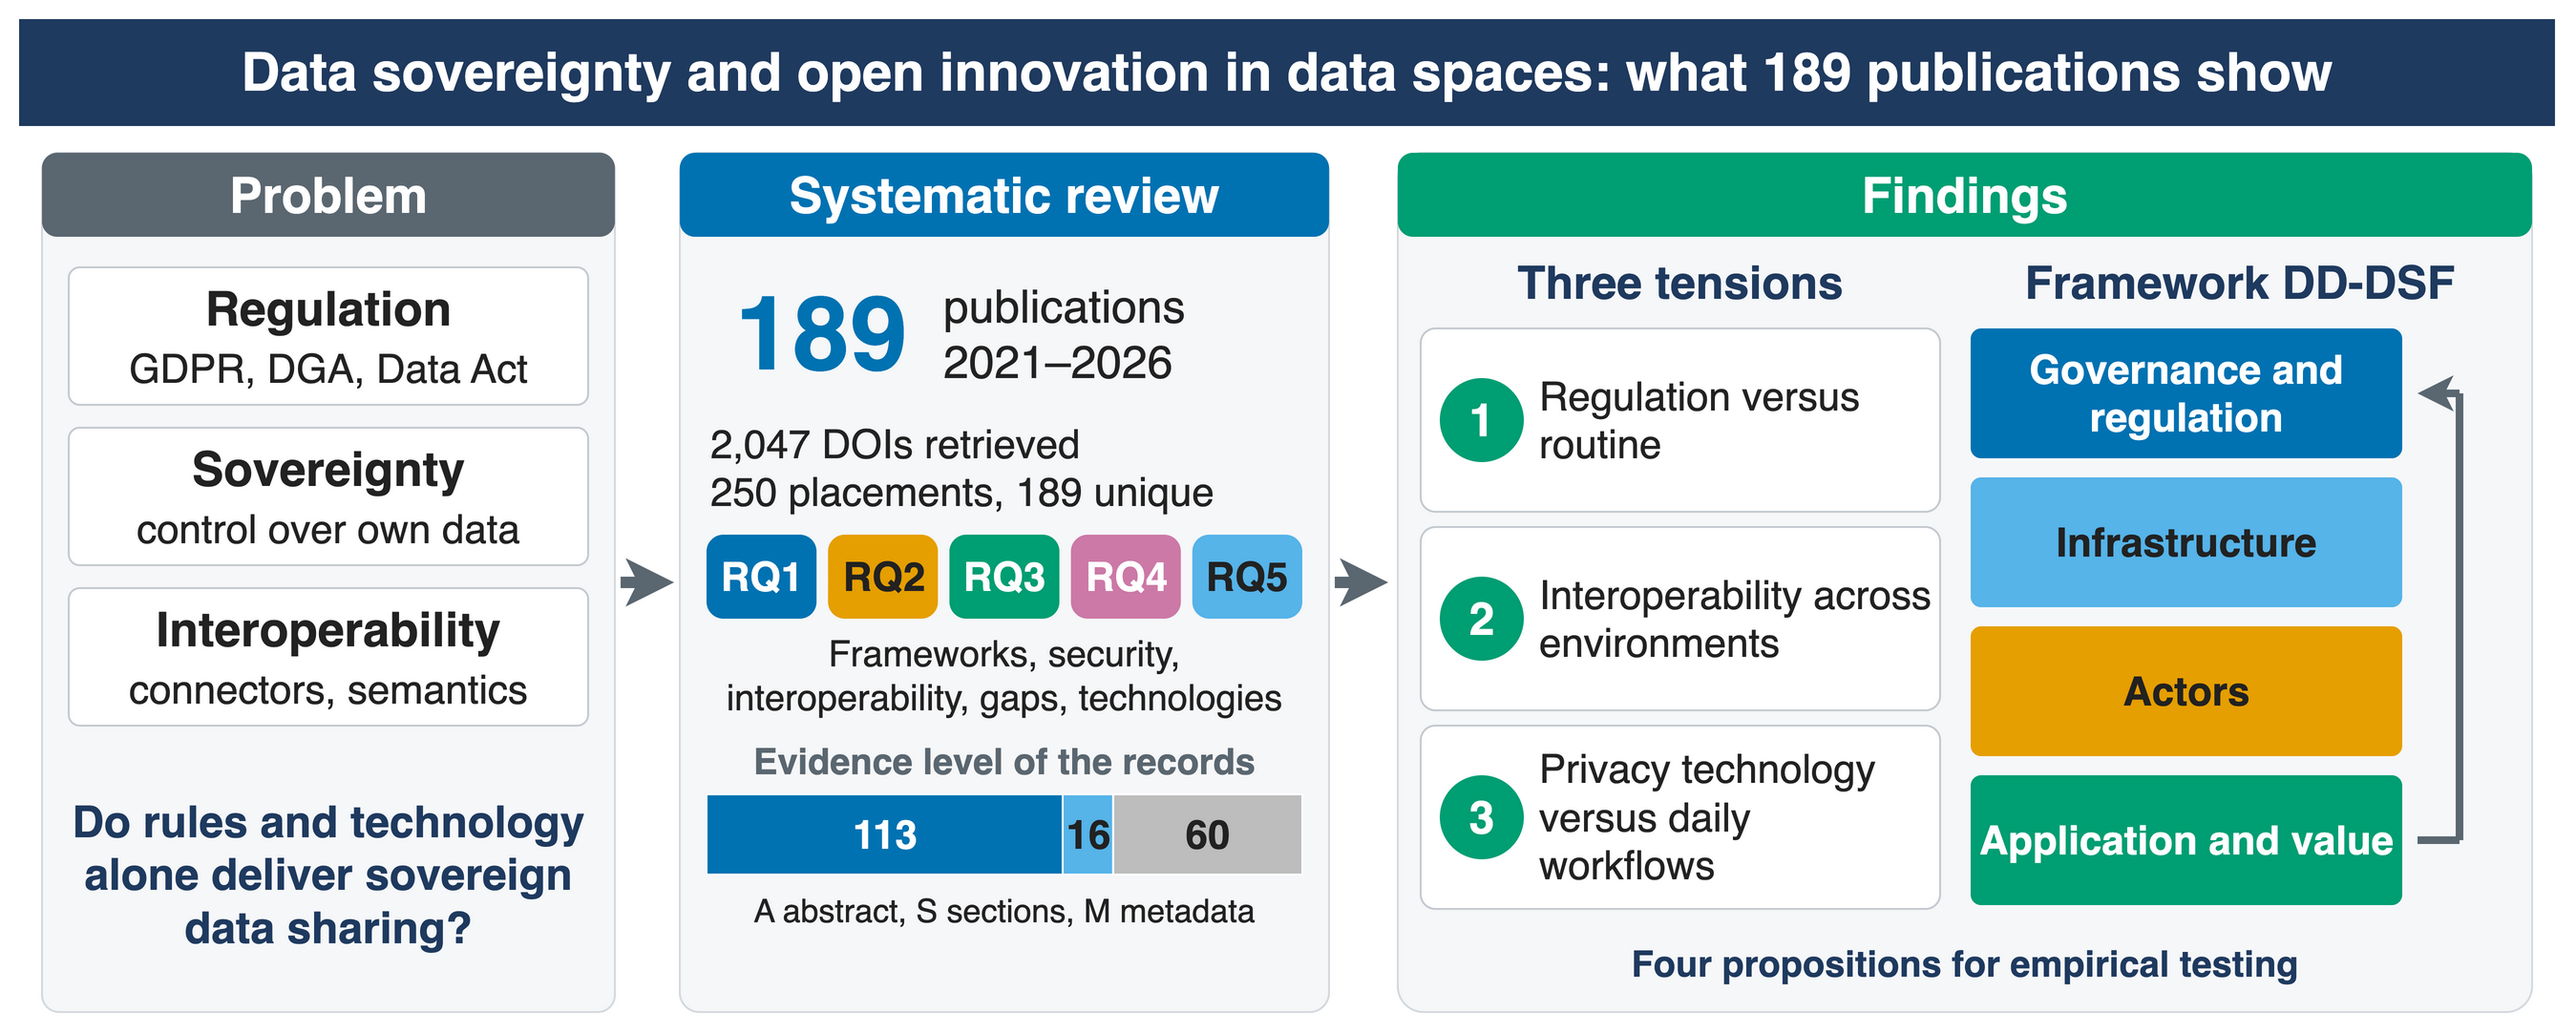
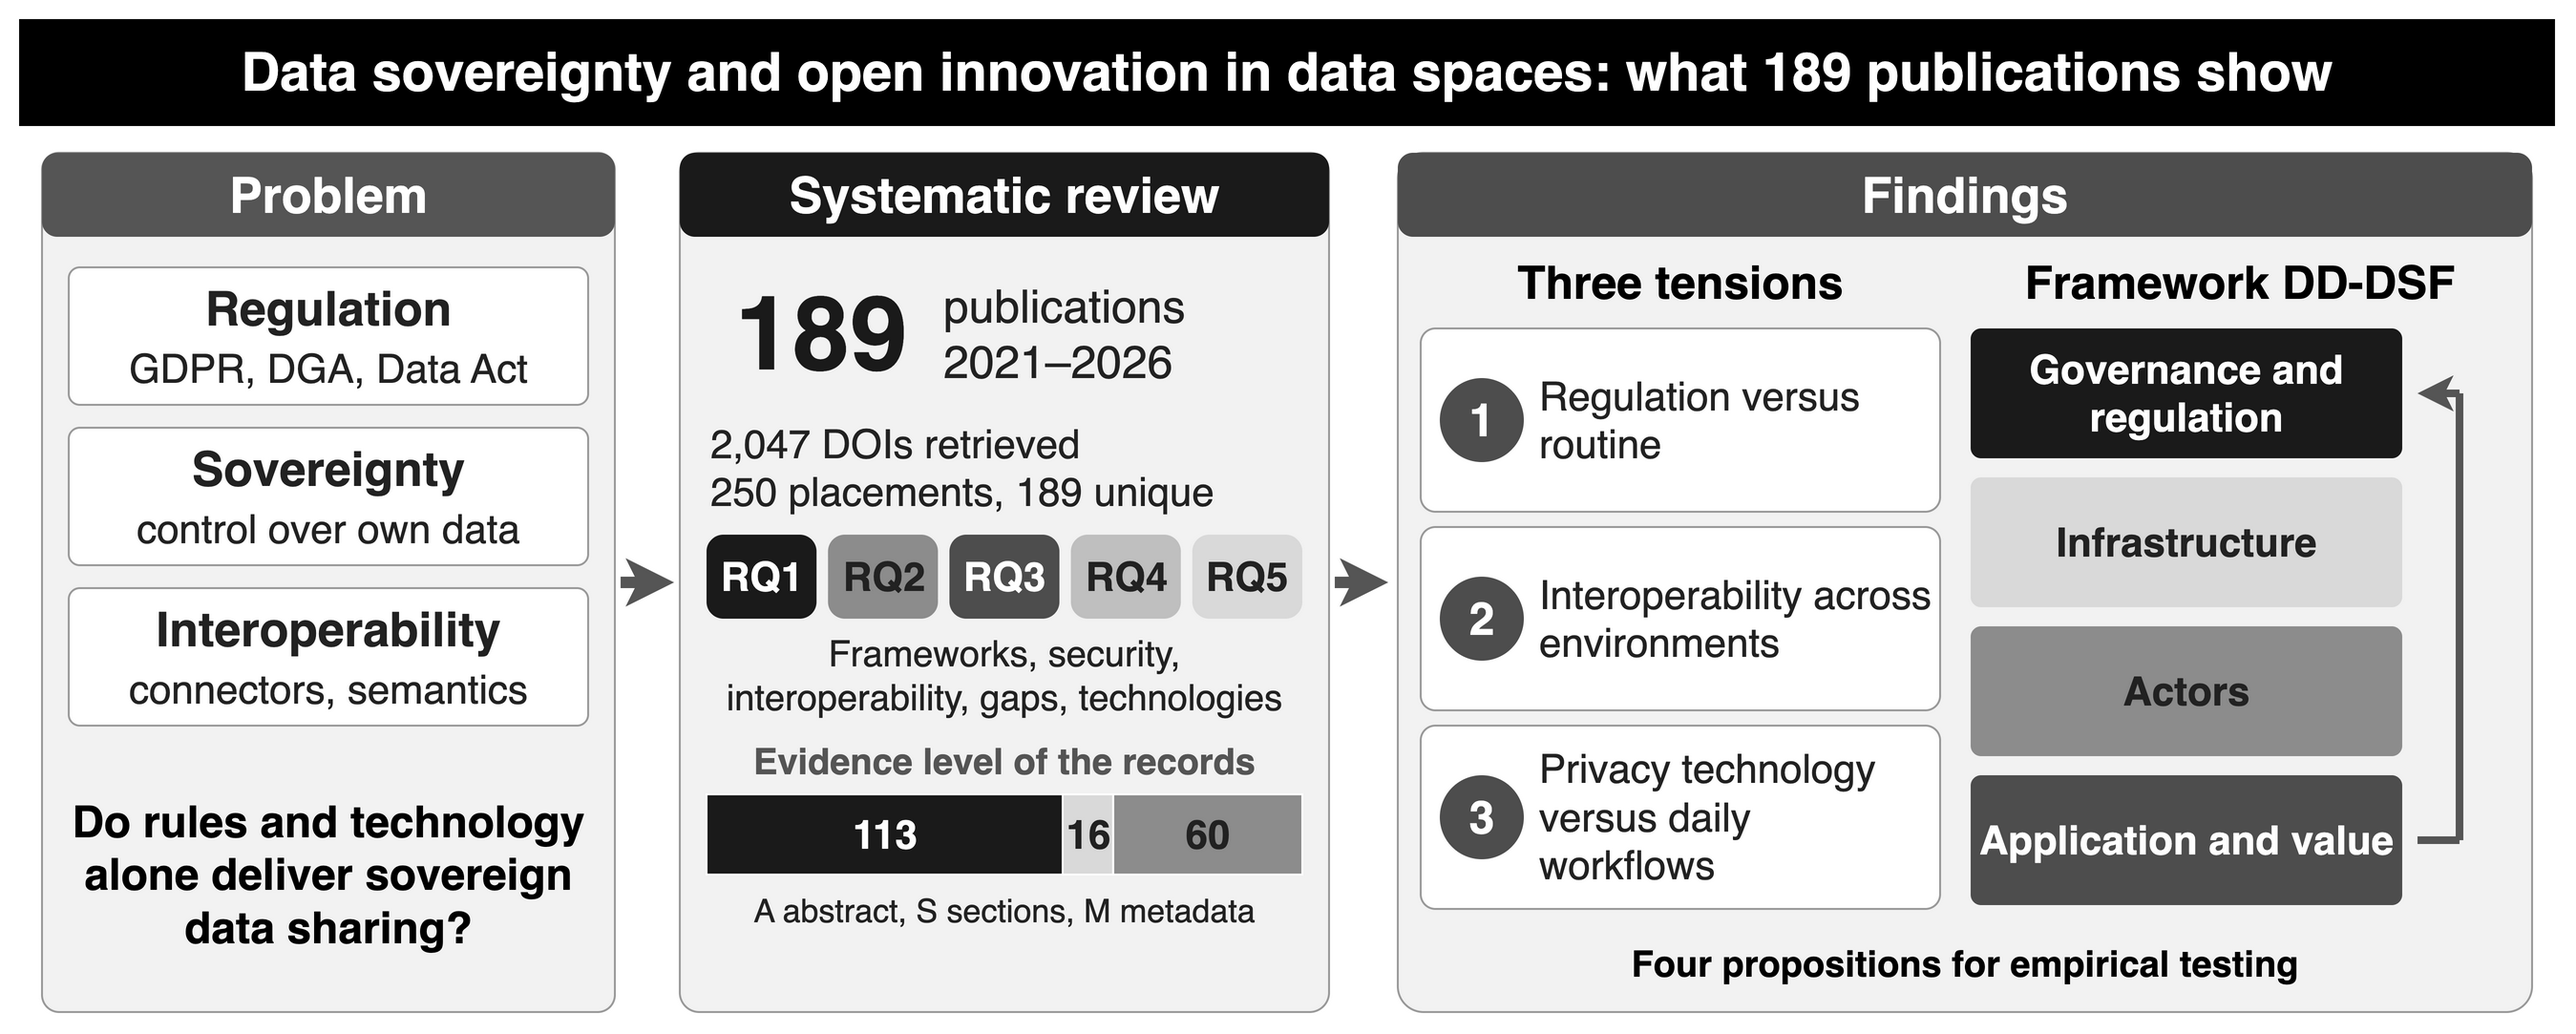
Graphical abstract in black and white

diff --git a/src/05_graphical_abstract.py b/src/05_graphical_abstract.py
@@ -19,8 +19,9 @@ retrieved = m.group(1)                      # "2,047"
 unique, placements = num["n_unique"], num["n_placements"]
 ev = num["evidence_total"]
 
-NAVY, GREY = "#1F3A5F", "#5B6770"
-BLUE, SKY, ORANGE, GREEN, PINK = "#0072B2", "#56B4E9", "#E69F00", "#009E73", "#CC79A7"
+# black-and-white version: the former colour names now hold grey tones
+NAVY, GREY = "#000000", "#555555"
+BLUE, SKY, ORANGE, GREEN, PINK = "#1A1A1A", "#D9D9D9", "#8C8C8C", "#4D4D4D", "#BFBFBF"
 W, H = 1328, 531
 g = Diagram(W, H, "Graphical abstract")
 
@@ -30,7 +31,7 @@ g.rect(0, 0, W, 56, fill=NAVY, text="Data sovereignty and open innovation in dat
 
 
 def panel(x, w, title, color):
-    g.rect(x, 70, w, 450, fill="#F6F7F9", stroke="#D5D9DE", rounded=True, arc=3)
+    g.rect(x, 70, w, 450, fill="#F2F2F2", stroke="#999999", rounded=True, arc=3)
     g.rect(x, 70, w, 44, fill=color, text=title, size=26, color="#ffffff", bold=True,
            rounded=True, arc=18)
 
@@ -47,7 +48,7 @@ items = [("Regulation", "GDPR, DGA, Data Act"),
          ("Interoperability", "connectors, semantics")]
 for i, (a, b) in enumerate(items):
     y = 130 + i * 84
-    g.rect(P1X + 14, y, P1W - 28, 72, fill="#ffffff", stroke="#C4CAD0", rounded=True,
+    g.rect(P1X + 14, y, P1W - 28, 72, fill="#ffffff", stroke="#999999", rounded=True,
            text=f"<b>{a}</b><br><font style='font-size:21px'>{b}</font>", size=25, color="#222222"
            )
 g.rect(P1X + 14, 388, P1W - 28, 120, fill="none",
@@ -68,7 +69,7 @@ rq = [("RQ1", BLUE), ("RQ2", ORANGE), ("RQ3", GREEN), ("RQ4", PINK), ("RQ5", SKY
 cw = (P2W - 28 - 4 * 6) / 5
 for i, (q, c) in enumerate(rq):
     g.rect(P2X + 14 + i * (cw + 6), 270, cw, 44, fill=c, text=q, size=21, bold=True,
-           color="#222222" if c in (ORANGE, SKY) else "#ffffff", rounded=True, arc=20)
+           color="#222222" if c in (ORANGE, SKY, PINK) else "#ffffff", rounded=True, arc=20)
 g.rect(P2X + 14, 318, P2W - 28, 52, fill="none",
        text="Frameworks, security, interoperability, gaps, technologies", size=19,
        color="#222222")
@@ -77,7 +78,7 @@ bx, bw = P2X + 14, P2W - 28
 g.rect(bx, 376, bw, 26, fill="none", text="Evidence level of the records", size=19,
        color=GREY, bold=True)
 x = bx
-for k, c, tc in (("A", BLUE, "#ffffff"), ("S", SKY, "#222222"), ("M", "#BDBDBD", "#222222")):
+for k, c, tc in (("A", BLUE, "#ffffff"), ("S", SKY, "#222222"), ("M", "#8C8C8C", "#222222")):
     w = bw * ev[k] / tot
     g.rect(x, 406, w, 42, fill=c, text=f"{ev[k]}", size=21, bold=True, color=tc,
            stroke="#ffffff")
@@ -95,7 +96,7 @@ tens = ["Regulation versus routine", "Interoperability across environments",
         "Privacy technology versus daily workflows"]
 for i, t in enumerate(tens):
     y = 162 + i * 104
-    g.rect(P3X + 12, y, 272, 96, fill="#ffffff", stroke="#C4CAD0", rounded=True)
+    g.rect(P3X + 12, y, 272, 96, fill="#ffffff", stroke="#999999", rounded=True)
     g.rect(P3X + 22, y + 26, 44, 44, fill=GREEN, text=str(i + 1), size=24, bold=True,
            color="#ffffff", rounded=True, arc=50)
     g.rect(P3X + 72, y + 2, 208, 92, fill="none", text=t, size=21, color="#222222",
